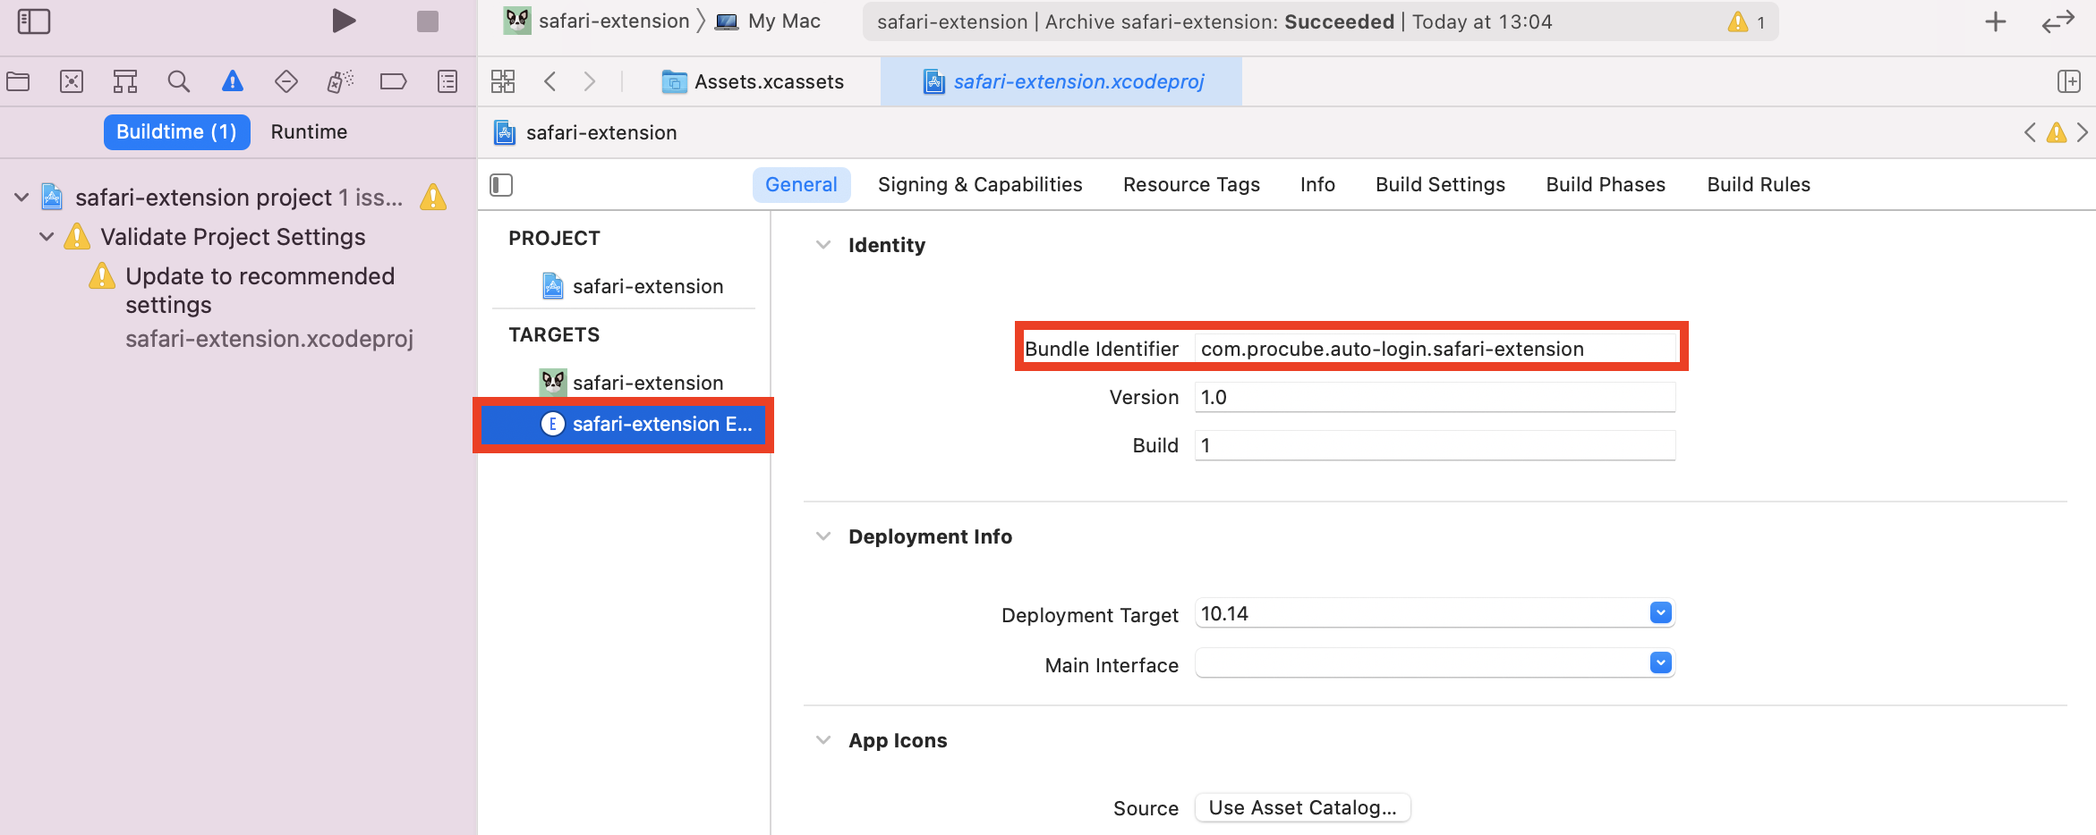
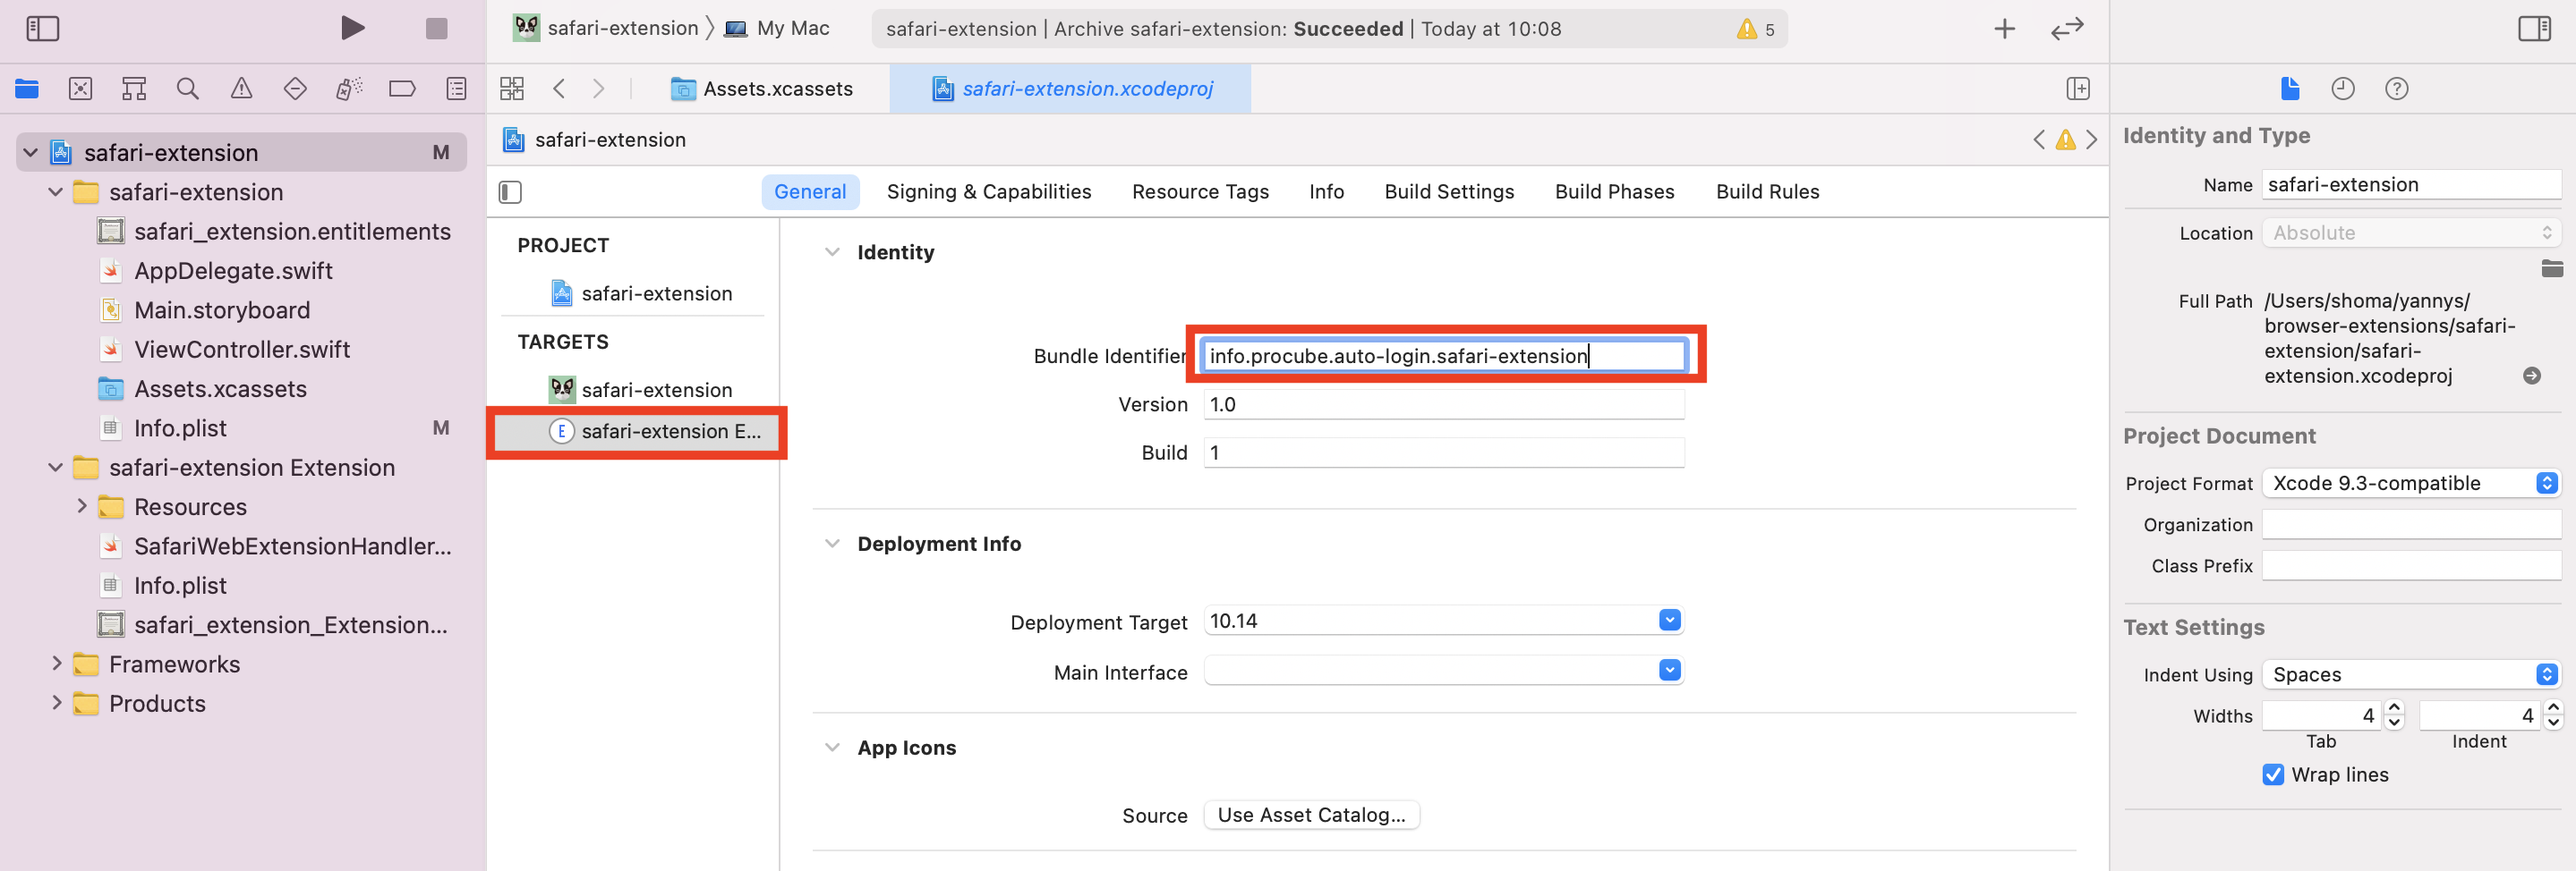
ドメイン修正

diff --git a/docs/ブラウザ毎の拡張機能配布方法.md b/docs/ブラウザ毎の拡張機能配布方法.md
@@ -46,8 +46,8 @@
    ![Image](./img/docs/safari/safari_2.png)
    2. プラットフォーム、会社名、名前、プライマリ言語、バンドルID(2-5で設定したメイン用のBundleID)、SKU(任意の文字列)、ユーザーアクセスを入力し、`作成`をクリックします。
 4. アップロード
-   1. safari-extension/safari-extension.xcodeprojをxcodeで開き、`TARGETS`から`safari-extension`を選択し`App Category`を設定します。`Bundle Identifier`は2-5で作成したメインの`「com.procube.auto-login」`を入力します。
-   続けて、`TARGETS`から`safari-extension Extension`を選択し`Bundle Identifier`を設定します。Bundle Identifierは2-5で作成したextension用の`「com.procube.auto-login.safari-extension」`を入力します。
+   1. safari-extension/safari-extension.xcodeprojをxcodeで開き、`TARGETS`から`safari-extension`を選択し`App Category`を設定します。`Bundle Identifier`は2-5で作成したメインの`「info.procube.auto-login」`を入力します。
+   続けて、`TARGETS`から`safari-extension Extension`を選択し`Bundle Identifier`を設定します。Bundle Identifierは2-5で作成したextension用の`「info.procube.auto-login.safari-extension」`を入力します。
    ![Image](./img/docs/safari/safari_9.png)
    ![Image](./img/docs/safari/safari_10.png)
    1. `Assets.xcassets`からアイコンを設定します。
